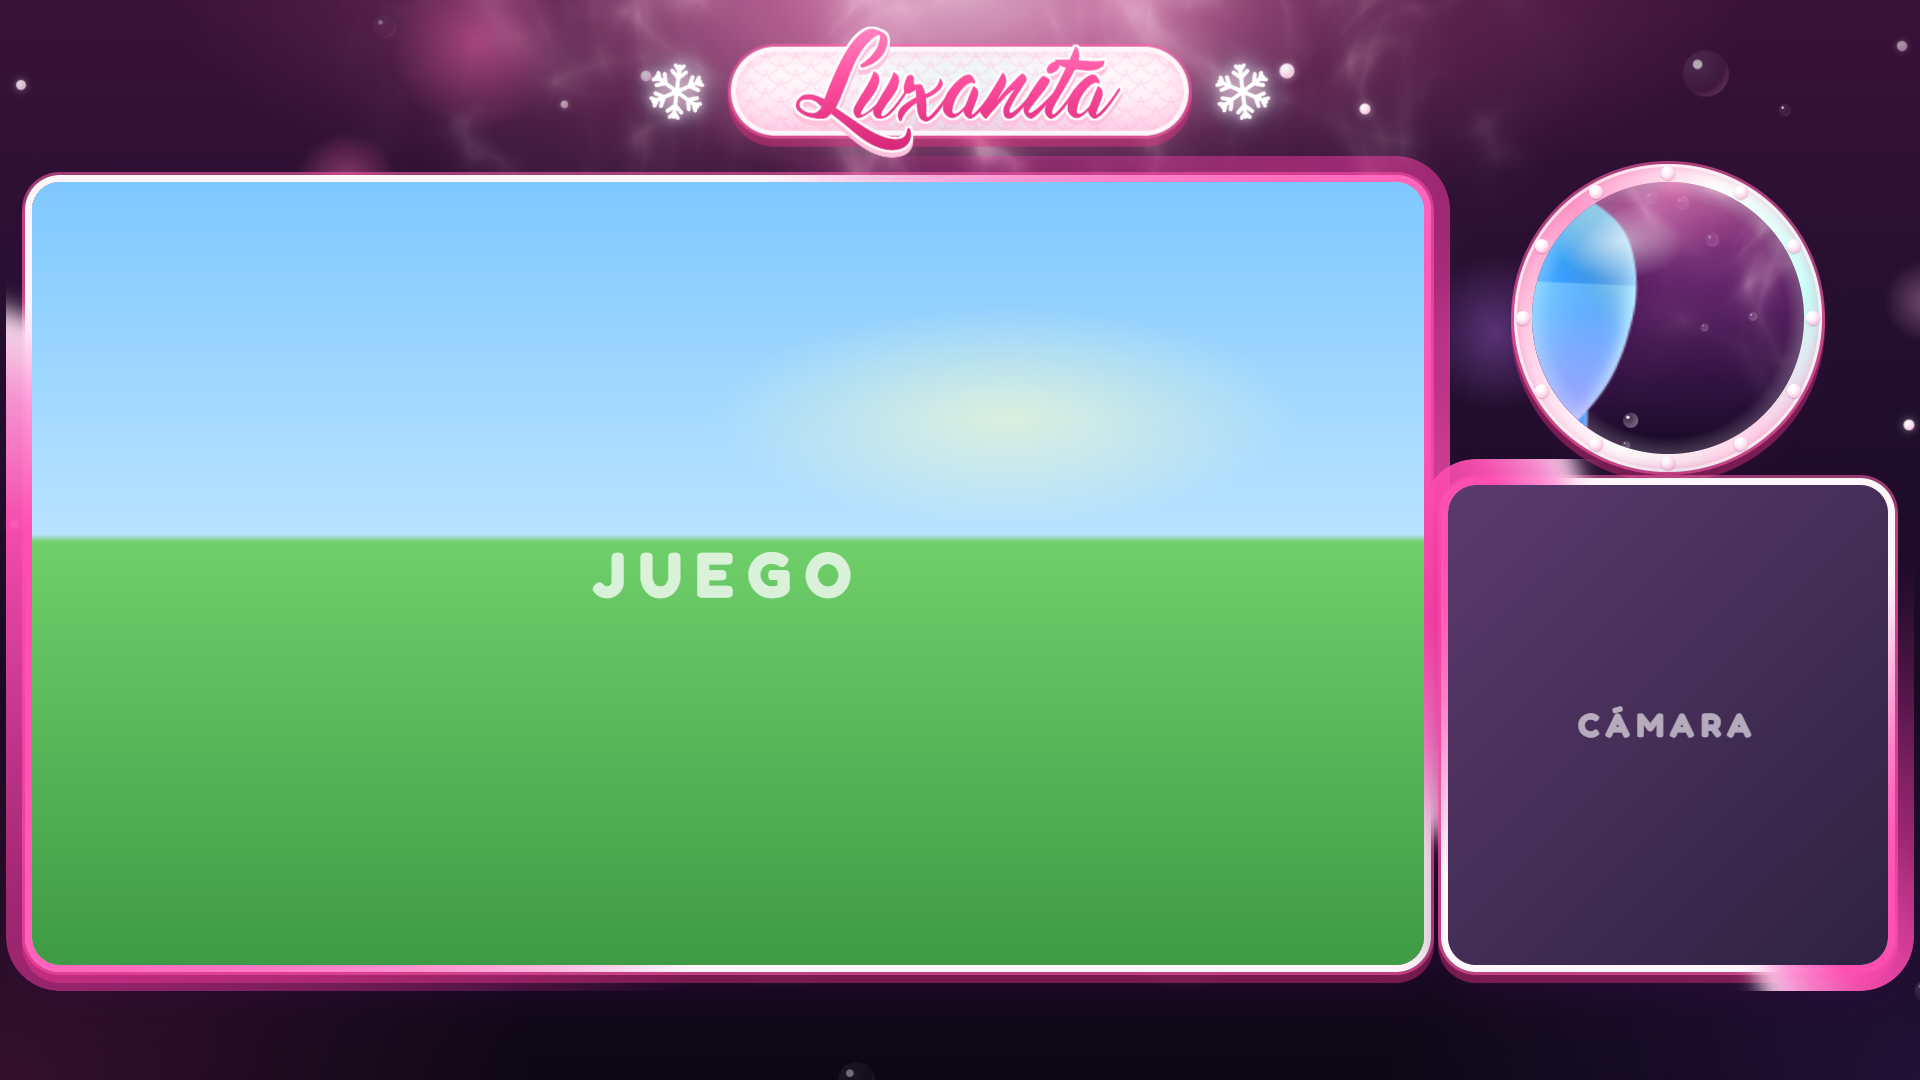
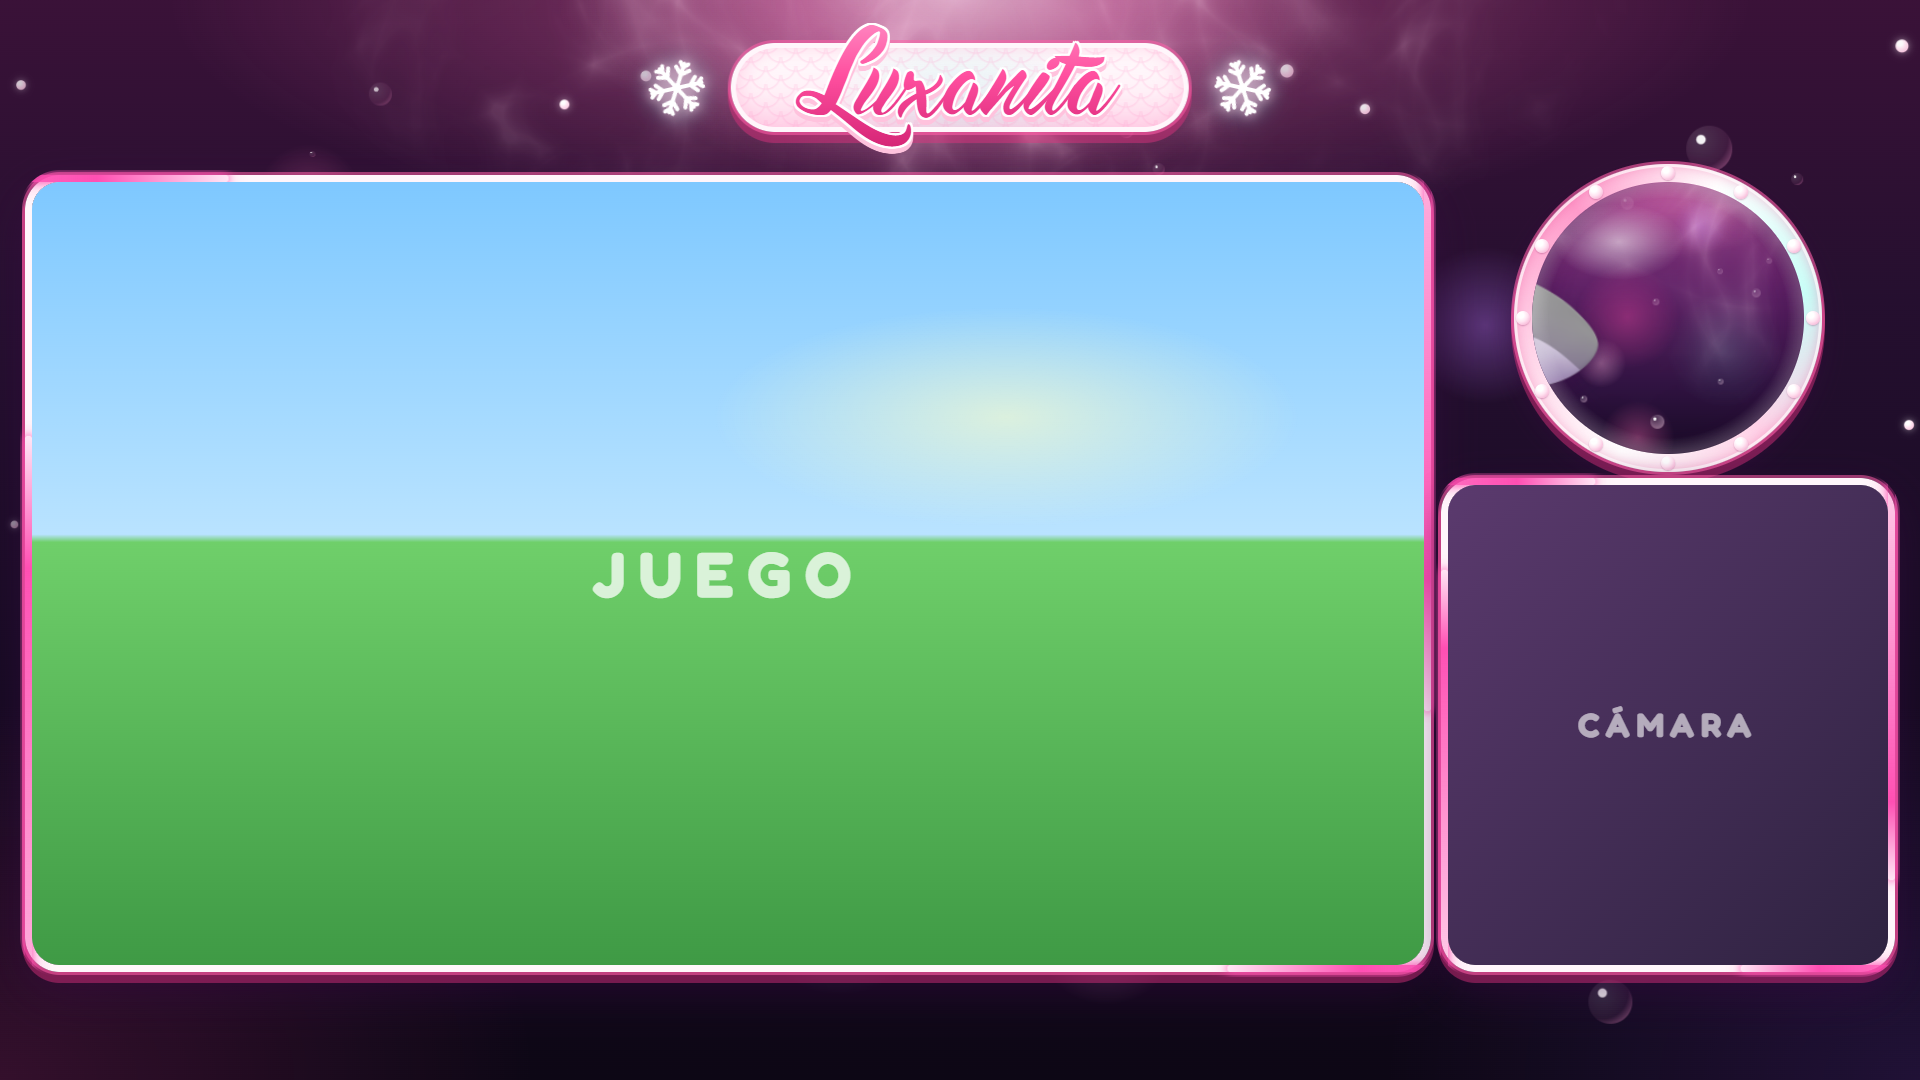
Overlay: menos trabajo para la tarjeta gráfica
- Reflejos: las texturas se funden en vez de desplazar capas enormes,
  y solo ocupan la franja de arriba.
- Nada se pinta fuera de la pantalla; menos luces difuminadas.

diff --git a/overlay/overlay.html b/overlay/overlay.html
@@ -46,6 +46,7 @@ html, body {
   top: 0;
   width: 1920px;
   height: 1080px;
+  overflow: hidden;            /* nada se pinta fuera de la pantalla (menos trabajo para la tarjeta gráfica) */
   transform-origin: 0 0;
   font-family: 'Fredoka', 'Nunito', 'Segoe UI Rounded', 'Arial Rounded MT Bold', 'Segoe UI', system-ui, sans-serif;
 }
@@ -69,40 +70,32 @@ html, body {
 .rays {
   position: absolute;
   left: 50%;
-  top: -40px;
-  width: 1700px;
-  height: 760px;
-  margin-left: -850px;
+  top: 0;
+  width: 1500px;
+  height: 330px;              /* solo la franja de arriba: lo de debajo queda tapado por el hueco del juego */
+  margin-left: -750px;
   overflow: hidden;
-  -webkit-mask-image: radial-gradient(ellipse 50% 100% at 50% 0, #000 0%, rgba(0,0,0,.6) 35%, transparent 75%);
-          mask-image: radial-gradient(ellipse 50% 100% at 50% 0, #000 0%, rgba(0,0,0,.6) 35%, transparent 75%);
+  -webkit-mask-image: radial-gradient(ellipse 50% 100% at 50% 0, #000 0%, rgba(0,0,0,.6) 40%, transparent 90%);
+          mask-image: radial-gradient(ellipse 50% 100% at 50% 0, #000 0%, rgba(0,0,0,.6) 40%, transparent 90%);
 }
 .rays::before, .rays::after {
   content: '';
   position: absolute;
   will-change: transform;
 }
+.rays::before, .rays::after { inset: 0; }
+/* las dos texturas se funden despacio entre sí y "respiran" un poco: parece luz que baila,
+   y las capas son del tamaño justo (antes se desplazaban capas enormes) */
 .rays::before {
-  left: -512px;
-  top: -512px;
-  width: calc(100% + 1024px);
-  height: calc(100% + 1024px);
   background: url('fondo/causticas1.png') 0 0 / 512px 512px;
-  opacity: .7;
-  animation: caust1 46s linear infinite;
+  animation: caust1 7s ease-in-out infinite alternate;
 }
 .rays::after {
-  left: -640px;
-  top: -640px;
-  width: calc(100% + 1280px);
-  height: calc(100% + 1280px);
   background: url('fondo/causticas2.png') 0 0 / 640px 640px;
-  opacity: .5;
-  animation: caust2 64s linear infinite;
+  animation: caust2 9s ease-in-out infinite alternate;
 }
-/* se desplazan justo una baldosa: al terminar empiezan igual y no se nota el salto */
-@keyframes caust1 { to { transform: translate(512px, 512px); } }
-@keyframes caust2 { to { transform: translate(-640px, 640px); } }
+@keyframes caust1 { from { opacity: .8;  transform: scale(1); }    to { opacity: .2;  transform: scale(1.05); } }
+@keyframes caust2 { from { opacity: .15; transform: scale(1.06); } to { opacity: .65; transform: scale(1); } }
 /* el "sol": un brillo rosa en el centro de la superficie */
 .sun {
   position: absolute;
@@ -652,7 +645,7 @@ html.preview body { background: #1b0e2c; }
   // ----- luces difuminadas (rosas, blancas y algún toque aguamarina) -----
   var bokeh = document.querySelector('.bokeh'), html = '';
   var tints = ['rgba(255,110,181,.5)', 'rgba(255,180,220,.4)', 'rgba(255,80,170,.42)', 'rgba(127,243,230,.22)', 'rgba(190,120,255,.35)'];
-  for (var i = 0; i < 14; i++) {
+  for (var i = 0; i < 10; i++) {
     html += '<span style="--x:' + (rnd() * 100).toFixed(1) + '%;--y:' + (rnd() * 100).toFixed(1) + '%;--s:' + (60 + rnd() * 160 | 0) + 'px;--c:' + tints[i % tints.length] + '"></span>';
   }
   bokeh.innerHTML = html;
